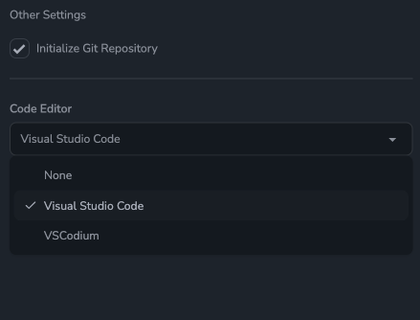
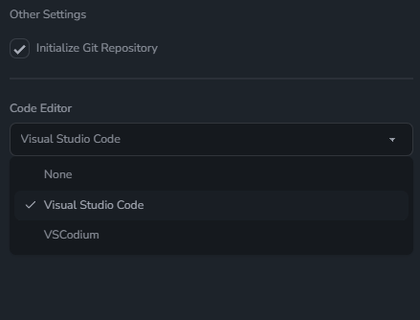
feat(homepage): update project setup features and messaging

diff --git a/src/pages/index.tsx b/src/pages/index.tsx
@@ -34,7 +34,7 @@ export default function Home(): ReactNode {
   return (
     <Layout
       title="The Companion App for Godot Engine"
-      description="Godot Launcher helps you manage Godot versions, custom Godot builds, project setup, VS Code, Git, and per-project editor settings in one open source app."
+      description="Manage Godot versions and custom builds, choose Visual Studio Code or VSCodium for each project, and initialize Git with Godot Launcher."
     >
       <Head>
         <script type="application/ld+json">
@@ -44,10 +44,8 @@ export default function Home(): ReactNode {
             name: "Godot Launcher",
             operatingSystem: "Windows, macOS, Linux",
             applicationCategory: "DeveloperApplication",
-            description: `Godot Launcher is a cross-platform, open source companion app
-              for Godot Engine that helps you manage Godot versions, register and use
-              custom Godot builds, set up projects, and keep per-project editor
-              settings organized.`,
+            description:
+              "Godot Launcher is a cross-platform, open source companion app for Godot Engine. Manage official and custom Godot editors, choose VS Code or VSCodium for each project, and initialize Git.",
             url: "https://godotlauncher.org",
             image:
               "https://godotlauncher.org/img/Godot-Launcher-Social-Card.jpg",
@@ -77,9 +75,9 @@ export default function Home(): ReactNode {
           <div className="secondary-tagline ">
             <Heading as="h2">Manage the setup around Godot</Heading>
             <p>
-              Godot Launcher keeps official Godot releases, custom Godot builds,
-              project setup, VS Code, Git, and per-project editor settings in
-              one place.
+              Manage official Godot releases and custom builds, choose Visual
+              Studio Code or VSCodium for each project, and initialize Git when
+              you need it.
             </p>
           </div>
           <HomepageFeatures />

diff --git a/src/components/HomepageFeatures/index.tsx b/src/components/HomepageFeatures/index.tsx
@@ -27,6 +27,20 @@ const FeatureList: FeatureItem[] = [
     ),
   },
   {
+    title: 'Create Projects With Git',
+    sources: {
+      light: '/img/features/Git_Project_Setup_Light.webp',
+      dark: '/img/features/Git_Project_Setup_Dark.webp',
+    },
+    alt: 'New Project form with Initialize Git Repository enabled',
+    size: { width: 410, height: 320 },
+    description: (
+      <>
+        Create projects with Git ready from the start, or initialize it later in Project Settings.
+      </>
+    ),
+  },
+  {
     title: 'Use Custom Godot Builds',
     sources: {
       light: '/img/features/Effortless_Godot_Version_Management_Custom_Light.png',
@@ -40,7 +54,7 @@ const FeatureList: FeatureItem[] = [
     ),
   },
   {
-    title: 'Start Projects Ready',
+    title: 'Choose Your Code Editor',
     sources: {
       light: '/img/features/Quick_Project_Setup_Light.webp',
       dark: '/img/features/Quick_Project_Setup_Dark.webp',
@@ -48,7 +62,7 @@ const FeatureList: FeatureItem[] = [
     size: { width: 420, height: 320 },
     description: (
       <>
-        Create Godot projects with Git and VS Code configuration already prepared.
+        Choose Visual Studio Code or VSCodium when you create a project, or change it later in Project Settings.
       </>
     ),
   },

diff --git a/src/components/CTADownload/index.tsx b/src/components/CTADownload/index.tsx
@@ -42,8 +42,9 @@ export const CTADownload: FC = () => {
           Download Godot Launcher
         </Heading>
         <p className={styles.ctaSubtitle}>
-          Available for Windows, macOS, and Linux.<br /> Manage Godot versions, custom
-          Godot builds, VS Code, Git, and project settings in one app.
+          Available for Windows, macOS, and Linux.<br /> Manage Godot versions
+          and custom builds, choose a code editor for each project, and
+          initialize Git in one app.
           <br />
           Latest release: {latest.tag_name}.
         </p>
